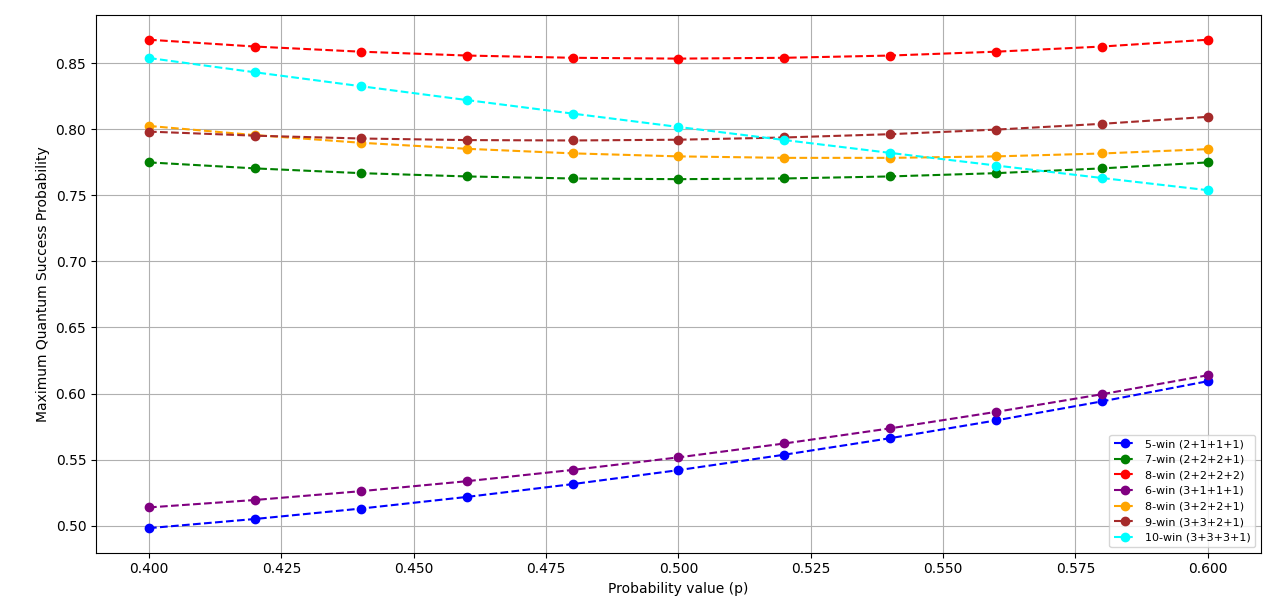
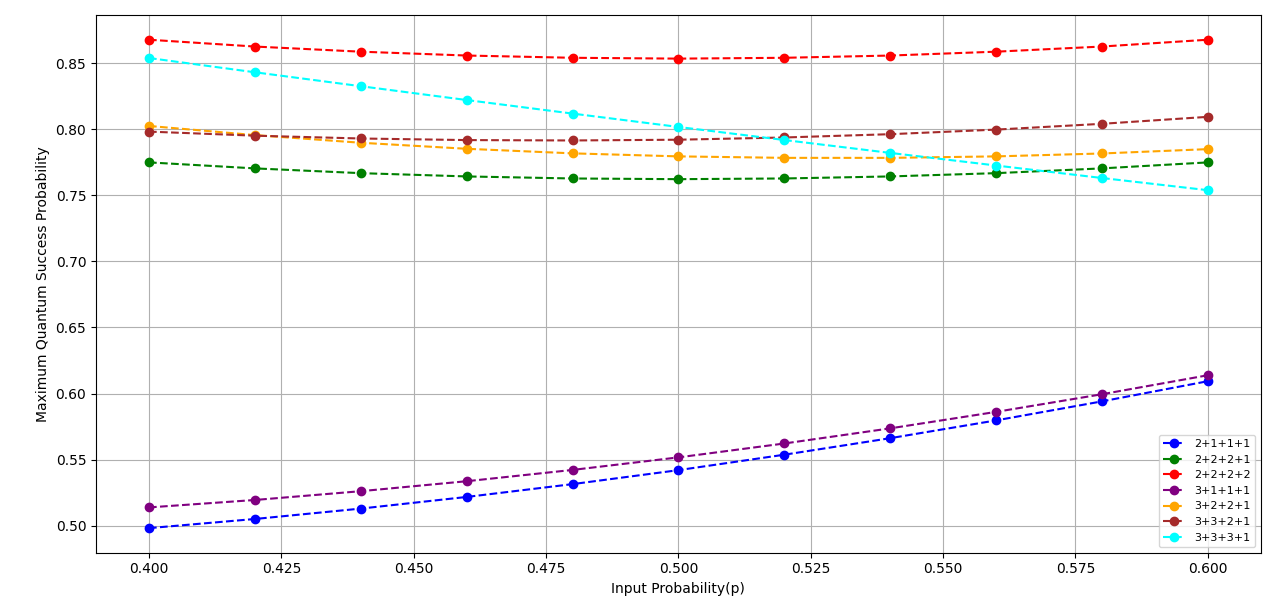
new

Changed region(s): [[0.875, 0.7141, 0.9688, 0.9003], [0.4688, 0.9314, 0.5938, 0.9935]]

diff --git a/newplot/advplot.py b/newplot/advplot.py
@@ -4,16 +4,14 @@ import pandas as pd
 # Define the data
 data = {
     "P value": [0.4, 0.42, 0.44, 0.46, 0.48, 0.5, 0.52, 0.54, 0.56, 0.58, 0.6],
-    "5 wins (2+1+1+1)": [-0.021832, -0.007712, 0.005756, 0.018559, 0.030671, 0.042044, 0.033721, 0.026223, 0.019683, 0.01407, 0.009335],
-    "6 wins (3+1+1+1)": [-0.006156, 0.006667, 0.018921, 0.030462, 0.041409, 0.051698, 0.042208, 0.033657, 0.026121, 0.019467, 0.013843],
-    "7 wins (2+2+2+1)": [-0.065122, -0.053257, -0.039661, -0.024142, -0.006893, 0.012189, -0.006884, -0.024142, -0.039666, -0.053253, -0.065123],
-    "8wins (2+2+2+2)": [0.027689, 0.03893, 0.052243, 0.067329, 0.084421, 0.103389, 0.084418, 0.067315, 0.052241, 0.038932, 0.027685],
-    "8wins (3+2+2+1)": [-0.037548, -0.028074, -0.016659, -0.003227, 0.012118, 0.02943, 0.008712, -0.010099, -0.026977, -0.041977, -0.055088],
-    "9 wins (3+3+2+1)": [-0.04183, -0.028509, -0.013441, 0.003359, 0.021868, 0.042036, 0.024123, 0.007818, -0.006713, -0.019532, -0.030659],
-    "10 wins (3+3+3+1)": [0.013844, 0.019465, 0.026122, 0.033664, 0.04221, 0.051694, 0.022209, -0.006343, -0.033879, -0.060534, -0.086157]
-}
-
-# Convert to DataFrame
+    "2+1+1+1": [-0.021832, -0.007712, 0.005756, 0.018559, 0.030671, 0.042044, 0.033721, 0.026223, 0.019683, 0.01407, 0.009335],
+    "3+1+1+1": [-0.006156, 0.006667, 0.018921, 0.030462, 0.041409, 0.051698, 0.042208, 0.033657, 0.026121, 0.019467, 0.013843],
+    "2+2+2+1": [-0.065122, -0.053257, -0.039661, -0.024142, -0.006893, 0.012189, -0.006884, -0.024142, -0.039666, -0.053253, -0.065123],
+    "2+2+2+2": [0.027689, 0.03893, 0.052243, 0.067329, 0.084421, 0.103389, 0.084418, 0.067315, 0.052241, 0.038932, 0.027685],
+    "3+2+2+1": [-0.037548, -0.028074, -0.016659, -0.003227, 0.012118, 0.02943, 0.008712, -0.010099, -0.026977, -0.041977, -0.055088],
+    "3+3+2+1": [-0.04183, -0.028509, -0.013441, 0.003359, 0.021868, 0.042036, 0.024123, 0.007818, -0.006713, -0.019532, -0.030659],
+    "3+3+3+1": [0.013844, 0.019465, 0.026122, 0.033664, 0.04221, 0.051694, 0.022209, -0.006343, -0.033879, -0.060534, -0.086157]
+}# Convrt to DataFrame
 df = pd.DataFrame(data)
 
 # Plotting
@@ -22,8 +20,8 @@ for column in df.columns[1:]:
     plt.plot(df["P value"], df[column], label=column, marker='o', linestyle='--')
 
 plt.title("")
-plt.xlabel("P value")
-plt.ylabel("Win Advantage")
+plt.xlabel("Input Probability (p)")
+plt.ylabel("Quantum Advantage")
 plt.grid(True)
 plt.ylim(bottom=0)
 plt.legend(loc='upper right')

diff --git a/newplot/QuantumSuccess_plot.py b/newplot/QuantumSuccess_plot.py
@@ -10,31 +10,31 @@ p_values = [
 datasets = [
     ([0.498168, 0.505088, 0.512956, 0.521759, 0.531471,
       0.542044, 0.553721, 0.566223, 0.579683, 0.594070, 0.609335],
-     '5-win (2+1+1+1)', 'blue'),
+     '2+1+1+1', 'blue'),
     
     ([0.774878, 0.770343, 0.766739, 0.764258, 0.762707,
       0.762189, 0.762716, 0.764258, 0.766734, 0.770347, 0.774877],
-     '7-win (2+2+2+1)', 'green'),
+     '2+2+2+1', 'green'),
     
     ([0.867689, 0.862530, 0.858643, 0.855729, 0.854021,
       0.853389, 0.854018, 0.855715, 0.858641, 0.862532, 0.867685],
-     '8-win (2+2+2+2)', 'red'),
+     '2+2+2+2', 'red'),
     
     ([0.513844, 0.519467, 0.526121, 0.533662, 0.542209,
       0.551698, 0.562208, 0.573657, 0.586121, 0.599467, 0.613843],
-     '6-win (3+1+1+1)', 'purple'),
+     '3+1+1+1', 'purple'),
     
     ([0.802452, 0.795526, 0.789741, 0.785173, 0.781718,
       0.779430, 0.778312, 0.778301, 0.779423, 0.781623, 0.784912],
-     '8-win (3+2+2+1)', 'orange'),
+     '3+2+2+1', 'orange'),
     
     ([0.798170, 0.795091, 0.792959, 0.791759, 0.791468,
       0.792036, 0.793723, 0.796218, 0.799687, 0.804068, 0.809341],
-     '9-win (3+3+2+1)', 'brown'),
+     '3+3+2+1', 'brown'),
     
     ([0.853844, 0.843065, 0.832522, 0.822064, 0.811810,
       0.801694, 0.791809, 0.782057, 0.772521, 0.763066, 0.753843],
-     '10-win (3+3+3+1)', 'cyan')
+     '3+3+3+1', 'cyan')
 ]
 
 # Plotting all datasets
@@ -44,7 +44,7 @@ for data, label, color in datasets:
     plt.plot(p_values, data, marker='o', linestyle='--', label=label, color=color)
 
 # Labels and formatting
-plt.xlabel("Probability value (p)")
+plt.xlabel("Input Probability(p)")
 plt.ylabel("Maximum Quantum Success Probability")
 plt.title("")
 plt.grid(True)
